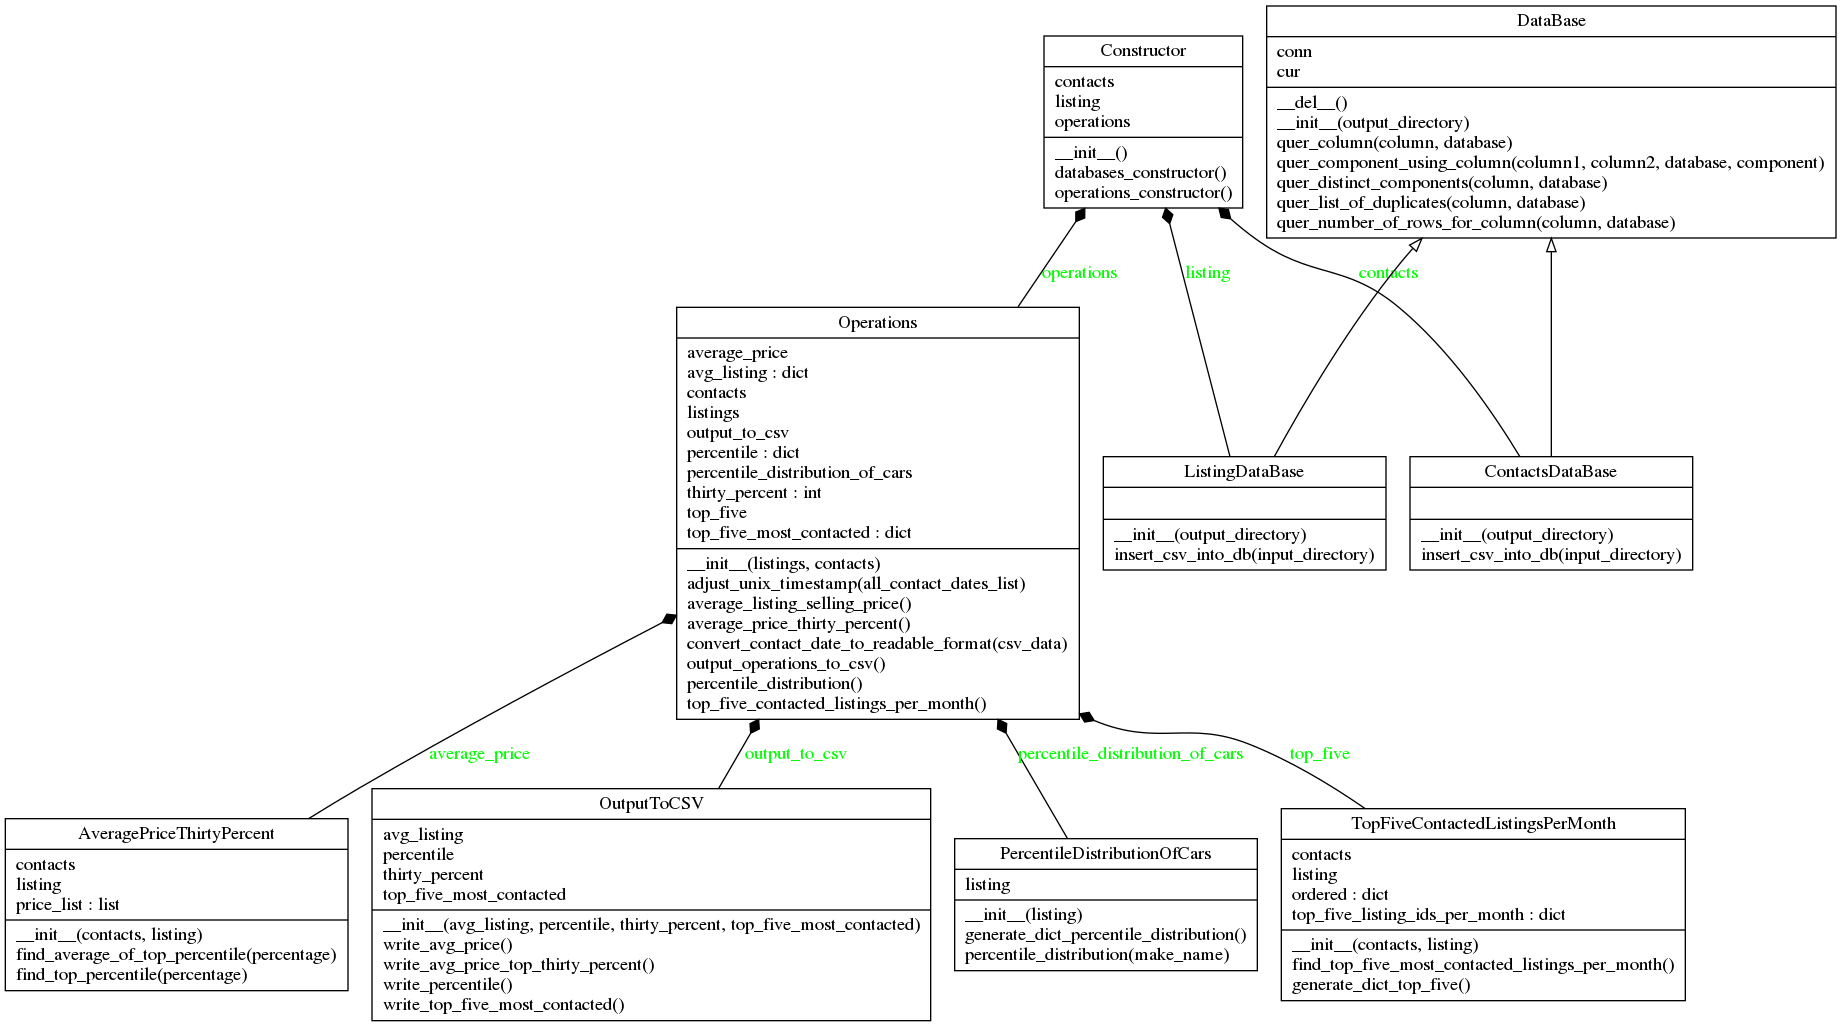
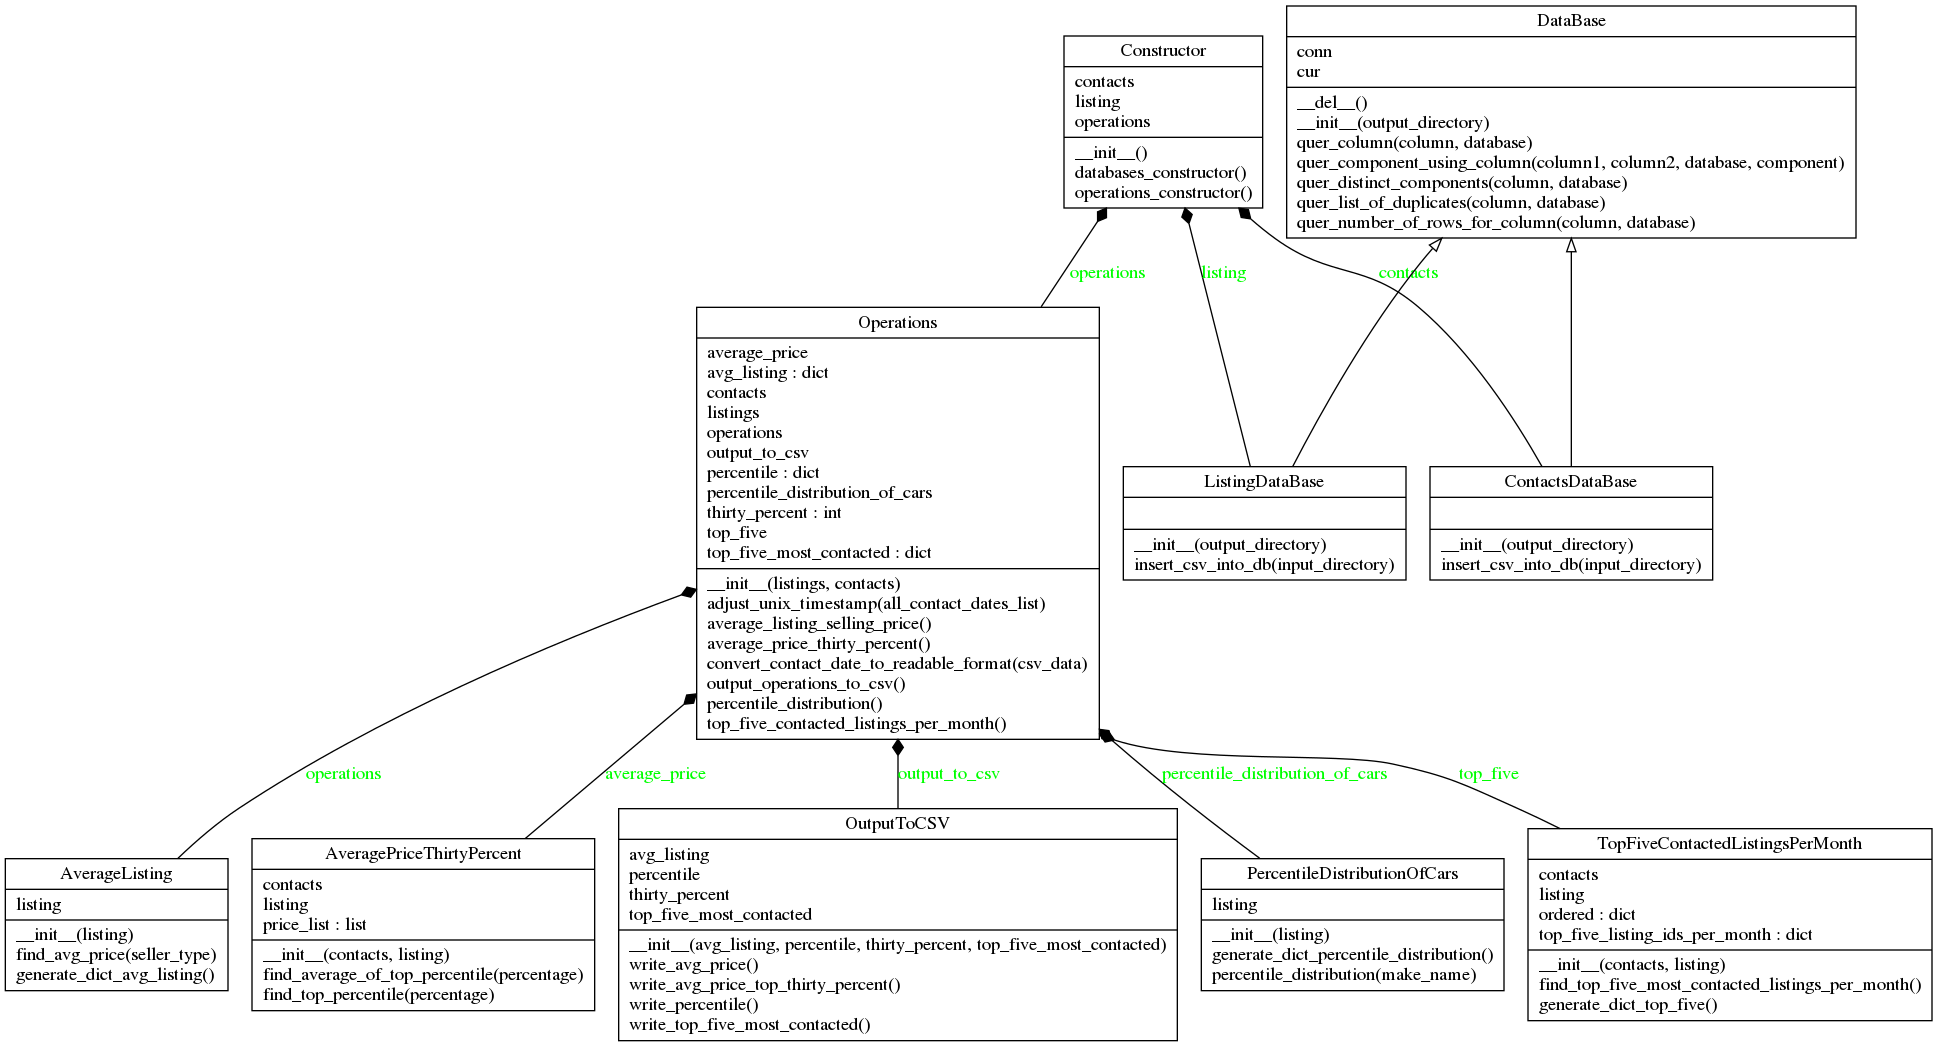
update uml

diff --git a/operations.py b/operations.py
@@ -16,8 +16,8 @@ class Operations:
         """
         Finds the average listing selling price per seller type
         """
-        operations = AverageListing(self.listings)
-        self.avg_listing = operations.generate_dict_avg_listing()
+        self.operations = AverageListing(self.listings)
+        self.avg_listing = self.operations.generate_dict_avg_listing()
 
     def percentile_distribution(self):
         """
